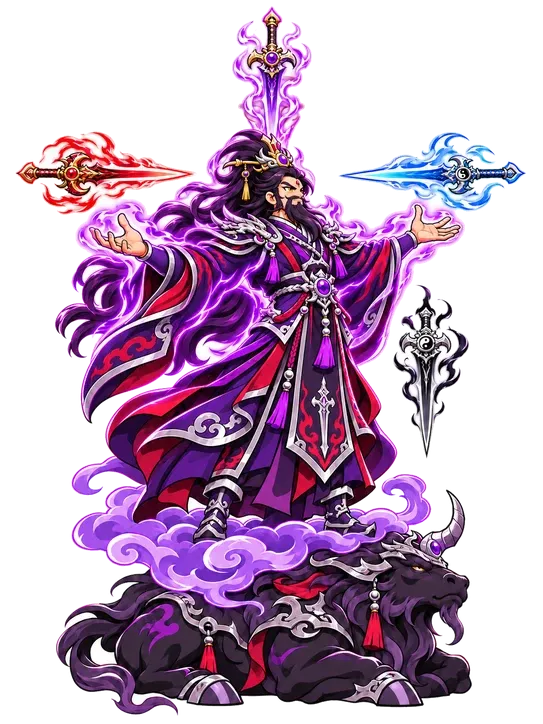
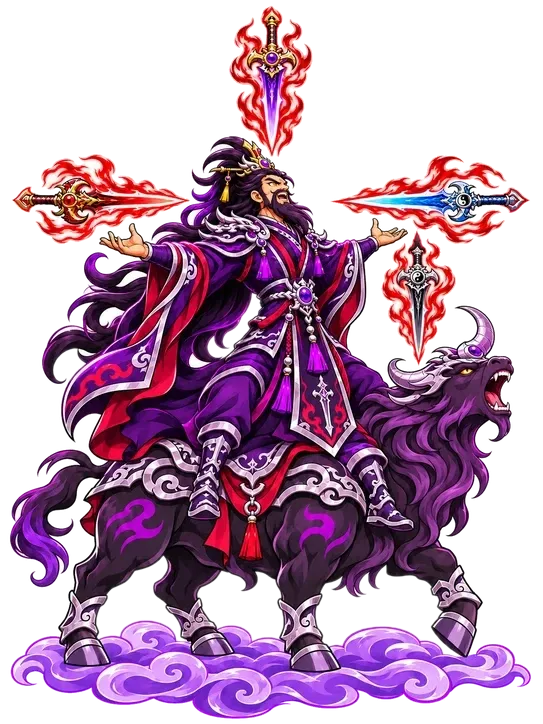
Thong Thien ngoi tren Khue Nguu, trau dap may; tinh ha Hong Quan chuyen dong; sua ten UR+ tren dien thoai

diff --git a/js/main.js b/js/main.js
@@ -1895,7 +1895,7 @@ function poseFor(u) {
   }
   return null;
 }
-const HFIX = { kimgiac: 1.1, vanthu: 1.2, thaisu: 1.2, hoangphiho: 1.2, phohien: 1.25, thailaoquan: 1.22, giaochu: 1.22, nguyenthuy: 1.22, hongquan: 1.25 };   // UR concept A (Thánh Toạ) to hơn để uy   // bù dáng khom; tướng cưỡi thú cho cụm to hơn để người cưỡi không bị bé (chiều cao thân đo bằng tools/remeasure_h.py)
+const HFIX = { kimgiac: 1.1, vanthu: 1.2, thaisu: 1.2, hoangphiho: 1.2, phohien: 1.25, thailaoquan: 1.22, giaochu: 1.0, nguyenthuy: 1.22, hongquan: 1.25 };   // UR concept A (Thánh Toạ) to hơn để uy   // bù dáng khom; tướng cưỡi thú cho cụm to hơn để người cưỡi không bị bé (chiều cao thân đo bằng tools/remeasure_h.py)
 const _bright = new WeakMap();
 function brightImg(img) {   // bản sáng của ảnh dáng (tạo 1 lần): nháy trắng khi trúng đòn mà không dùng ctx.filter mỗi khung
   let c = _bright.get(img); if (c) return c;
@@ -1917,8 +1917,47 @@ function drawPose(u, name, t, h, alpha) {
   else if (name === 'hit') { const e = 1 - eo(Math.min(1, t)); ox = -11 * e; rot = -0.06 * e; sy = 1 - 0.03 * e; }
   ctx.save(); ctx.globalAlpha *= alpha; ctx.translate(ox, 0); ctx.rotate(rot); ctx.scale(sx, sy);
   ctx.drawImage(u.hurt > 0 ? brightImg(img) : img, -gx, -gy, img.width * k, img.height * k);
+  if (u.id === 'hongquan' && HQ_GAL[name]) hqGalaxy(img, HQ_GAL[name], -gx, -gy, k, alpha);
   ctx.filter = 'none'; ctx.restore();
   return true;
+}
+// Hồng Quân: dải tinh hà ở vạt áo chuyển động — tinh vân xoáy chậm quanh lõi + sao lấp lánh, chỉ phủ trong hình nhân vật (cắt theo độ trong của ảnh dáng)
+const HQ_GAL = {"idle1":[0.35,0.732],"idle2":[0.346,0.732],"windup":[0.344,0.732],"strike":[0.425,0.809],"skill":[0.425,0.811],"ult":[0.425,0.809],"hit":[0.346,0.732]};   // tools/find_galaxy_core.py
+const HQ_NEB = new Image(); HQ_NEB.src = 'art/ui/frames/nebula.webp';
+const HQ_STARS = Array.from({ length: 16 }, (_, i) => ({ a: i * 2.39996, r: 0.12 + 0.88 * ((i * 0.618) % 1), ph: i * 1.7, sp: 1.6 + (i % 5) * 0.5 }));
+let _hqOff = null;
+function hqGalaxy(img, c, x0, y0, k, alpha, tc) {
+  tc = tc || ctx;
+  if (gfxLow() || !HQ_NEB.complete || !HQ_NEB.naturalWidth) return;
+  const R = img.width * 0.3, S = Math.ceil(R * 2), cx = c[0] * img.width, cy = c[1] * img.height, T = performance.now() / 1000;
+  if (!_hqOff) _hqOff = document.createElement('canvas');
+  if (_hqOff.width !== S) { _hqOff.width = S; _hqOff.height = S; }
+  const g = _hqOff.getContext('2d'); g.globalCompositeOperation = 'source-over'; g.globalAlpha = 1; g.clearRect(0, 0, S, S);
+  g.drawImage(img, cx - R, cy - R, S, S, 0, 0, S, S);                                   // lấy hình vạt áo làm khuôn
+  g.globalCompositeOperation = 'source-in'; g.fillStyle = '#000'; g.fillRect(0, 0, S, S);
+  g.globalCompositeOperation = 'source-atop';
+  for (const [rot, sc, al] of [[T * 0.35, 1.5, 0.9], [-T * 0.22 + 1, 1.15, 0.6]]) {   // hai lớp tinh vân xoay ngược nhau = xoáy
+    g.save(); g.globalAlpha = al; g.translate(R, R); g.rotate(rot); g.drawImage(HQ_NEB, -R * sc, -R * sc, R * 2 * sc, R * 2 * sc); g.restore(); }
+  const fl = FXT.flare;
+  if (fl && fl.complete && fl.naturalWidth) for (const s of HQ_STARS) {                  // sao quay quanh lõi, nhấp nháy
+    const tw = Math.max(0, Math.sin(T * s.sp + s.ph)); if (tw < 0.15) continue;
+    const ang = s.a + T * 0.25 / (0.3 + s.r), rr = s.r * R * 0.9, sz = R * (0.1 + 0.16 * tw);
+    g.globalAlpha = tw; g.drawImage(fl, R + Math.cos(ang) * rr - sz / 2, R + Math.sin(ang) * rr * 0.75 - sz / 2, sz, sz); }
+  g.globalCompositeOperation = 'destination-in'; g.globalAlpha = 1;                     // mờ dần ra rìa
+  const rg = g.createRadialGradient(R, R, R * 0.15, R, R, R); rg.addColorStop(0, '#000'); rg.addColorStop(0.6, 'rgba(0,0,0,0.75)'); rg.addColorStop(1, 'rgba(0,0,0,0)');
+  g.fillStyle = rg; g.fillRect(0, 0, S, S);
+  tc.save(); tc.globalCompositeOperation = 'lighter'; tc.globalAlpha = alpha * 0.55;
+  tc.drawImage(_hqOff, x0 + (cx - R) * k, y0 + (cy - R) * k, S * k, S * k); tc.restore();
+}
+function hqGalaxyDom(hero) {   // màn chi tiết tướng: lớp canvas phủ đúng khung ảnh dáng đứng (object-fit: contain, neo đáy)
+  const p1 = hero.querySelector('.p1'); if (!p1) return;
+  const cv = document.createElement('canvas'); cv.className = 'hqg'; hero.appendChild(cv);
+  const W0 = 300, H0 = 400, dpr = Math.min(2, window.devicePixelRatio || 1); cv.width = W0 * dpr; cv.height = H0 * dpr; const g = cv.getContext('2d');
+  const tick = () => { if (!cv.isConnected) return; requestAnimationFrame(tick);
+    g.setTransform(1, 0, 0, 1, 0, 0); g.clearRect(0, 0, cv.width, cv.height); if (!p1.naturalWidth || hero.classList.contains('act')) return;
+    const k = Math.min(W0 / p1.naturalWidth, H0 / p1.naturalHeight); g.setTransform(dpr, 0, 0, dpr, 0, 0);
+    hqGalaxy(p1, HQ_GAL.idle1, (W0 - p1.naturalWidth * k) / 2, H0 - p1.naturalHeight * k, k, 1.3, g); };
+  tick();
 }
 function drawRigUnit(u, h, alpha) {
   const pz = poseFor(u) || (window.HPOSE && HPOSE[u.id] && !hasSkel(u.id) ? ['idle1', 0] : null);   // tướng chỉ có tư thế (không rig): thắng/chết dùng dáng đứng
@@ -4075,7 +4114,8 @@ function showHeroDetail(id, tab) {
   { const ro = ui.querySelector('.hd5-roster .on'); if (ro) ro.scrollIntoView({ block: 'nearest', inline: 'center' }); }
   ui.querySelectorAll('[data-ro]').forEach(b => b.onclick = () => showHeroDetail(b.dataset.ro));
   ui.querySelectorAll('[data-sk]').forEach(b => b.onclick = () => { HD_SKSEL = b.dataset.sk; showHeroDetail(id); });
-  { let n = 0; const st2 = $('#hdStage'), pa = st2.querySelector('.pa'), hero = st2.querySelector('.hd5-hero');   // bấm: lần lẻ ra đòn, lần chẵn tung tuyệt kỹ
+  { let n = 0; const st2 = $('#hdStage'), pa = st2.querySelector('.pa'), hero = st2.querySelector('.hd5-hero');
+    if (pd === 'hongquan' && hero) hqGalaxyDom(hero);   // bấm: lần lẻ ra đòn, lần chẵn tung tuyệt kỹ
     st2.onclick = () => { if (hero.classList.contains('act')) return; const seq = n++ % 2 ? [['skill', 260], ['ult', 700]] : [['windup', 200], ['strike', 420]];
       hero.classList.add('act'); let t = 0; for (const [p, d] of seq) { setTimeout(() => { pa.src = `art/poses/${pd}/${p}.webp`; }, t); t += d; }
       if (seq[1][0] === 'ult') { st2.classList.add('ultfx'); snd('magic'); } else snd('whoosh');

diff --git a/art/poses/hmeta.js b/art/poses/hmeta.js
@@ -1,1 +1,1 @@
-window.HPOSE = {"loichantu": {"H": 1201.8, "gnd": [660, 1395]}, "thohanhton": {"H": 1196.0, "gnd": [512, 1387]}, "thaiatchannhan": {"H": 1185.3, "gnd": [573, 1335]}, "thancongbao": {"H": 1182.4, "gnd": [657, 1321]}, "longnu": {"H": 1303.7, "gnd": [567, 1398]}, "kimgiac": {"H": 1298.8, "gnd": [578, 1384]}, "tieubachlong": {"H": 1265.8, "gnd": [517, 1412]}, "thaibachkimtinh": {"H": 1135.9, "gnd": [604, 1321]}, "culinhthan": {"H": 1254.2, "gnd": [575, 1394]}, "hoangphongquai": {"H": 1087.4, "gnd": [479, 1364]}, "khuongtanha": {"H": 1377.4, "gnd": [570, 1429]}, "trieucongminh": {"H": 1368.7, "gnd": [572, 1420]}, "bachcot": {"H": 1371.6, "gnd": [574, 1423]}, "bodetosu": {"H": 1372.5, "gnd": [563, 1426]}, "tranguyentu": {"H": 1327.9, "gnd": [551, 1403]}, "hoangphiho": {"H": 1167.9, "gnd": [519, 1358]}, "dienmau": {"H": 1308.5, "gnd": [543, 1398]}, "thanhnguutinh": {"H": 1287.2, "gnd": [502, 1387]}, "longvuong": {"H": 1262.0, "gnd": [591, 1418]}, "dangthienngoc": {"H": 1246.5, "gnd": [535, 1378]}, "kimtra": {"H": 1344.4, "gnd": [540, 1409]}, "hachhung": {"H": 1286.2, "gnd": [533, 1387]}, "thodia": {"H": 1212.5, "gnd": [479, 1341]}, "giaochu": {"H": 1085.4, "gnd": [548, 1432]}, "khongtuyen": {"H": 1276.5, "gnd": [568, 1423]}, "nhiendang": {"H": 1207.6, "gnd": [467, 1367]}, "thaisu": {"H": 1356.1, "gnd": [556, 1418]}, "hoangmi": {"H": 1227.0, "gnd": [528, 1367]}, "vanthu": {"H": 1276.5, "gnd": [538, 1395]}, "quynhtieu": {"H": 1240.6, "gnd": [517, 1367]}, "hoangthienhoa": {"H": 1375.5, "gnd": [555, 1432]}, "viho": {"H": 1386.1, "gnd": [563, 1435]}, "thachco": {"H": 1165.9, "gnd": [445, 1347]}, "giaochu_s2": {"H": 1287.2, "gnd": [570, 1423]}, "thailaoquan_s2": {"H": 1384.2, "gnd": [556, 1434]}, "thailaoquan": {"H": 1107.7, "gnd": [533, 1439]}, "hongquan": {"H": 1165.0, "gnd": [429, 1437]}, "nguyenthuy": {"H": 1303.7, "gnd": [551, 1423]}, "ngochoang": {"H": 1327.9, "gnd": [519, 1417]}, "dilac": {"H": 1022.4, "gnd": [516, 1278]}, "quangthanh": {"H": 1329.9, "gnd": [502, 1423]}, "kimlinh": {"H": 1304.6, "gnd": [510, 1412]}, "chanvu": {"H": 1107.7, "gnd": [557, 1338]}, "vuongmau": {"H": 1330.8, "gnd": [502, 1417]}, "phohien": {"H": 1318.2, "gnd": [465, 1418]}, "daibang": {"H": 1179.5, "gnd": [489, 1361]}, "ngocdinh": {"H": 1336.7, "gnd": [556, 1423]}, "hoangbao": {"H": 1303.7, "gnd": [471, 1429]}, "bachnhan": {"H": 1330.8, "gnd": [550, 1423]}, "hattu": {"H": 1327.0, "gnd": [494, 1401]}, "moctra": {"H": 1167.9, "gnd": [553, 1344]}, "nganggiac": {"H": 1266.8, "gnd": [563, 1384]}, "loicong": {"H": 1243.5, "gnd": [529, 1375]}, "ngoctho": {"H": 1308.5, "gnd": [528, 1415]}, "maonhat": {"H": 1223.2, "gnd": [535, 1360]}, "linhcam": {"H": 1172.7, "gnd": [642, 1361]}};
+window.HPOSE = {"loichantu": {"H": 1201.8, "gnd": [660, 1395]}, "thohanhton": {"H": 1196.0, "gnd": [512, 1387]}, "thaiatchannhan": {"H": 1185.3, "gnd": [573, 1335]}, "thancongbao": {"H": 1182.4, "gnd": [657, 1321]}, "longnu": {"H": 1303.7, "gnd": [567, 1398]}, "kimgiac": {"H": 1298.8, "gnd": [578, 1384]}, "tieubachlong": {"H": 1265.8, "gnd": [517, 1412]}, "thaibachkimtinh": {"H": 1135.9, "gnd": [604, 1321]}, "culinhthan": {"H": 1254.2, "gnd": [575, 1394]}, "hoangphongquai": {"H": 1087.4, "gnd": [479, 1364]}, "khuongtanha": {"H": 1377.4, "gnd": [570, 1429]}, "trieucongminh": {"H": 1368.7, "gnd": [572, 1420]}, "bachcot": {"H": 1371.6, "gnd": [574, 1423]}, "bodetosu": {"H": 1372.5, "gnd": [563, 1426]}, "tranguyentu": {"H": 1327.9, "gnd": [551, 1403]}, "hoangphiho": {"H": 1167.9, "gnd": [519, 1358]}, "dienmau": {"H": 1308.5, "gnd": [543, 1398]}, "thanhnguutinh": {"H": 1287.2, "gnd": [502, 1387]}, "longvuong": {"H": 1262.0, "gnd": [591, 1418]}, "dangthienngoc": {"H": 1246.5, "gnd": [535, 1378]}, "kimtra": {"H": 1344.4, "gnd": [540, 1409]}, "hachhung": {"H": 1286.2, "gnd": [533, 1387]}, "thodia": {"H": 1212.5, "gnd": [479, 1341]}, "giaochu": {"H": 1034.0, "gnd": [507, 1437]}, "khongtuyen": {"H": 1276.5, "gnd": [568, 1423]}, "nhiendang": {"H": 1207.6, "gnd": [467, 1367]}, "thaisu": {"H": 1356.1, "gnd": [556, 1418]}, "hoangmi": {"H": 1227.0, "gnd": [528, 1367]}, "vanthu": {"H": 1276.5, "gnd": [538, 1395]}, "quynhtieu": {"H": 1240.6, "gnd": [517, 1367]}, "hoangthienhoa": {"H": 1375.5, "gnd": [555, 1432]}, "viho": {"H": 1386.1, "gnd": [563, 1435]}, "thachco": {"H": 1165.9, "gnd": [445, 1347]}, "giaochu_s2": {"H": 1287.2, "gnd": [570, 1423]}, "thailaoquan_s2": {"H": 1384.2, "gnd": [556, 1434]}, "thailaoquan": {"H": 1107.7, "gnd": [533, 1439]}, "hongquan": {"H": 1165.0, "gnd": [429, 1437]}, "nguyenthuy": {"H": 1303.7, "gnd": [551, 1423]}, "ngochoang": {"H": 1327.9, "gnd": [519, 1417]}, "dilac": {"H": 1022.4, "gnd": [516, 1278]}, "quangthanh": {"H": 1329.9, "gnd": [502, 1423]}, "kimlinh": {"H": 1304.6, "gnd": [510, 1412]}, "chanvu": {"H": 1107.7, "gnd": [557, 1338]}, "vuongmau": {"H": 1330.8, "gnd": [502, 1417]}, "phohien": {"H": 1318.2, "gnd": [465, 1418]}, "daibang": {"H": 1179.5, "gnd": [489, 1361]}, "ngocdinh": {"H": 1336.7, "gnd": [556, 1423]}, "hoangbao": {"H": 1303.7, "gnd": [471, 1429]}, "bachnhan": {"H": 1330.8, "gnd": [550, 1423]}, "hattu": {"H": 1327.0, "gnd": [494, 1401]}, "moctra": {"H": 1167.9, "gnd": [553, 1344]}, "nganggiac": {"H": 1266.8, "gnd": [563, 1384]}, "loicong": {"H": 1243.5, "gnd": [529, 1375]}, "ngoctho": {"H": 1308.5, "gnd": [528, 1415]}, "maonhat": {"H": 1223.2, "gnd": [535, 1360]}, "linhcam": {"H": 1172.7, "gnd": [642, 1361]}};

diff --git a/index.html b/index.html
@@ -14,26 +14,26 @@
 <link rel="preconnect" href="https://fonts.googleapis.com">
 <link rel="preconnect" href="https://fonts.gstatic.com" crossorigin>
 <link href="https://fonts.googleapis.com/css2?family=Baloo+2:wght@500;600;700;800&family=Dancing+Script:wght@700&display=swap" rel="stylesheet">
-<link rel="stylesheet" href="css/style.css?v=1795442419">
-<link rel="stylesheet" href="css/themes.css?v=1795442419">
+<link rel="stylesheet" href="css/style.css?v=1795443285">
+<link rel="stylesheet" href="css/themes.css?v=1795443285">
 </head>
 <body>
 <div id="app">
   <canvas id="game"></canvas>
   <div id="ui"></div>
 </div>
-<script src="js/data.js?v=1795442419"></script><script src="art/enemies/meta.js?v=1795442419"></script><script src="art/ssrfx/aura_c.js?v=1795442419"></script>
-  <script src="art/poses/hmeta.js?v=1795442419"></script>
-<script src="js/art.js?v=1795442419"></script>
-<script src="art/anim/manifest.js?v=1795442419"></script>
-<script src="js/rig.js?v=1795442419"></script>
-<script src="art/rig/all.js?v=1795442419"></script>
-<script src="js/layered.js?v=1795442419"></script>
-<script src="art/mesh/index.js?v=1795442419"></script>
-<script src="js/meshrig.js?v=1795442419"></script>
-<script src="art/skel/index.js?v=1795442419"></script>
-<script src="js/skel.js?v=1795442419"></script>
-<script src="js/vfx.js?v=1795442419"></script>
-<script src="js/main.js?v=1795442419"></script>
+<script src="js/data.js?v=1795443285"></script><script src="art/enemies/meta.js?v=1795443285"></script><script src="art/ssrfx/aura_c.js?v=1795443285"></script>
+  <script src="art/poses/hmeta.js?v=1795443285"></script>
+<script src="js/art.js?v=1795443285"></script>
+<script src="art/anim/manifest.js?v=1795443285"></script>
+<script src="js/rig.js?v=1795443285"></script>
+<script src="art/rig/all.js?v=1795443285"></script>
+<script src="js/layered.js?v=1795443285"></script>
+<script src="art/mesh/index.js?v=1795443285"></script>
+<script src="js/meshrig.js?v=1795443285"></script>
+<script src="art/skel/index.js?v=1795443285"></script>
+<script src="js/skel.js?v=1795443285"></script>
+<script src="js/vfx.js?v=1795443285"></script>
+<script src="js/main.js?v=1795443285"></script>
 </body>
 </html>

diff --git a/css/style.css b/css/style.css
@@ -1250,3 +1250,12 @@ html, body { height: 100dvh; min-height: 100dvh; background-color: #1f140e; }
 @keyframes hgHue { to { filter: hue-rotate(360deg); } }
 .hc2.locked .hc2-glow { display: none; }
 .hc2-fr { will-change: filter; }
+/* tên UR+: bỏ chữ cắt nền (điện thoại hiện thành dải sáng mất chữ) → chữ vàng + ánh sáng nhịp, chạy mọi máy */
+.hc2.t-URP b { color: #ffe9a0 !important; background: none !important; -webkit-background-clip: border-box !important; background-clip: border-box !important; filter: none !important;
+  text-shadow: 0 1px 0 #2a0a3a, 0 0 3px #000, 0 0 6px rgba(200,120,255,.9) !important; animation: hcGoldT 3s ease-in-out infinite !important; }
+@keyframes hcGoldT { 0%, 100% { color: #ffe9a0; } 50% { color: #fff; } }
+.hc2.t-URP .hc2-rar::after { color: #ffd76a !important; background: none !important; -webkit-background-clip: border-box !important; background-clip: border-box !important; filter: none !important; text-shadow: 0 1px 0 #2a0a3a, 0 0 4px rgba(200,120,255,.9); }
+
+/* Hồng Quân: lớp tinh hà chuyển động trên màn chi tiết */
+.hd5-hero canvas.hqg { position: absolute; inset: 0; width: 100%; height: 100%; pointer-events: none; }
+.hd5-hero.off canvas.hqg { display: none; }
